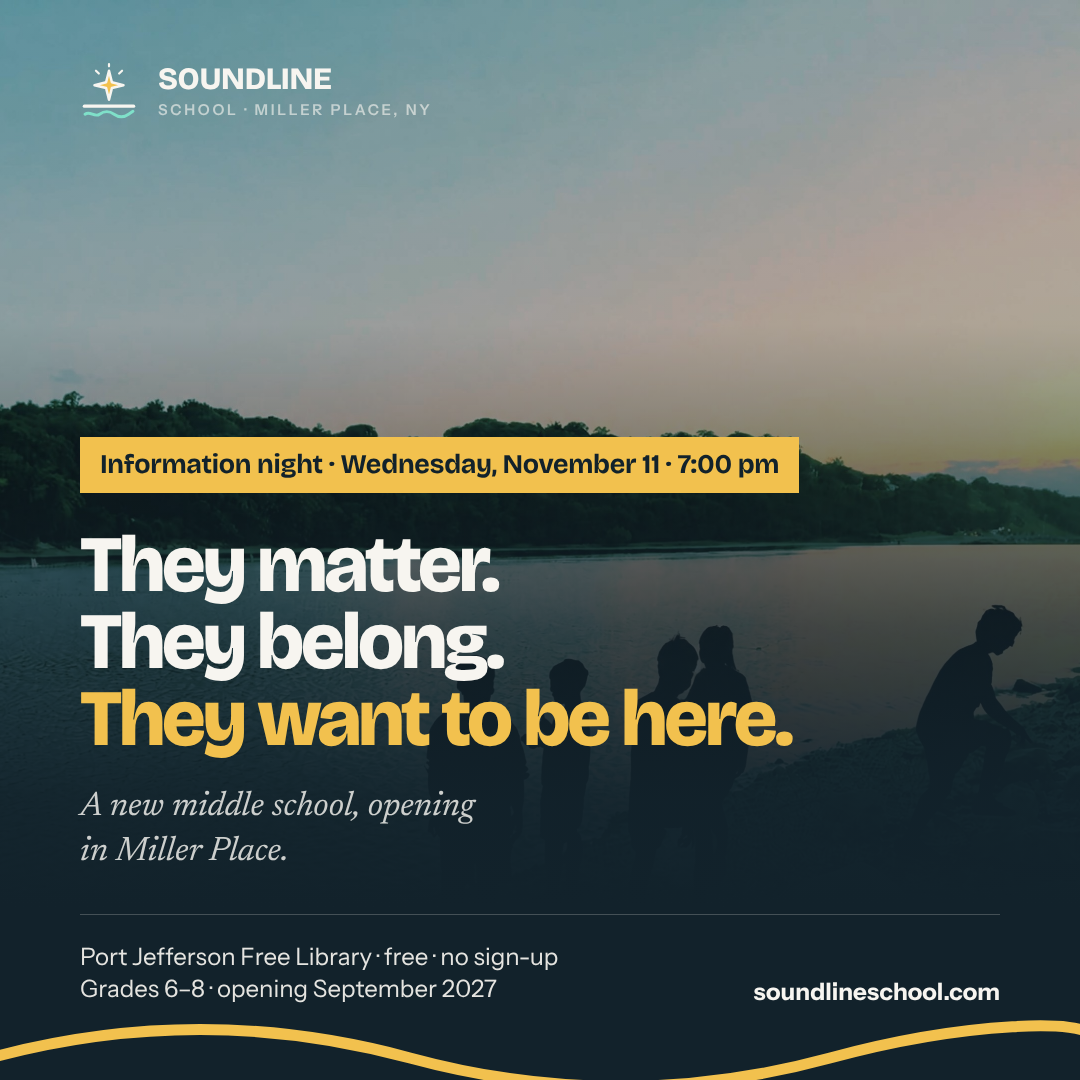
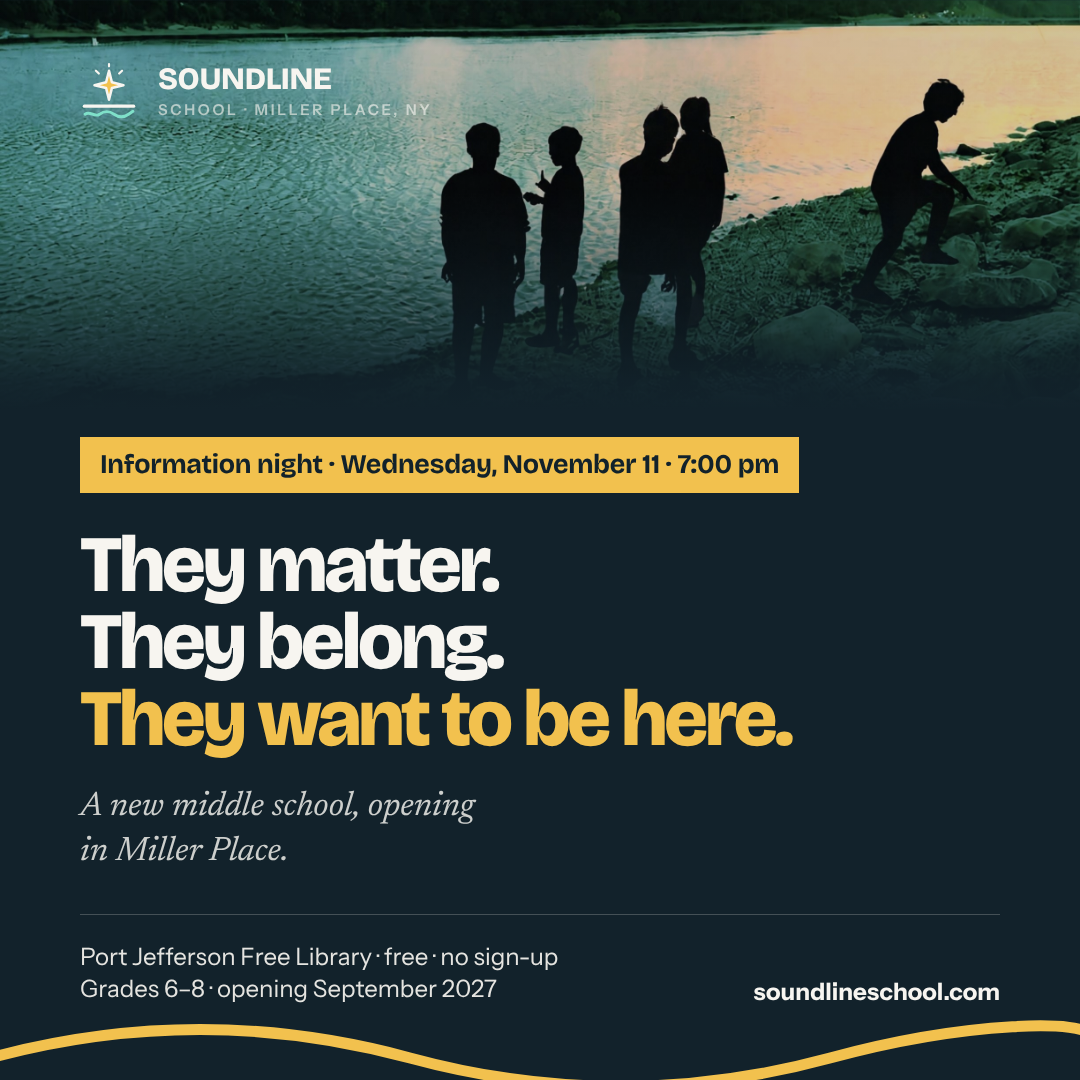
Put the booklet's shoreline photograph in the ad, as a band
The packet before its rebuild carried one photograph: five
kids in silhouette on the Sound at dusk. The rebuild dropped
it, because it was rebuilt from nothing. It is the right
picture for paid — real local water, real kids, no faces, so
nothing is being claimed about a child who does not attend a
school that does not exist yet.

Full-bleed put the figures behind the headline: in that shot
they fall in the lower third, which is where the words are.
A band across the top crops to them and leaves the type on
solid ground.

Also stops the December kicker claiming an hour nobody has
set. It carries the date alone until there is one.

Claude-Session: https://claude.ai/code/session_018XwtJ3ar8u6f3XjiJA2UqT

diff --git a/tools/ads-nov11.js b/tools/ads-nov11.js
@@ -6,6 +6,7 @@
 // crop itself.
 //
 //   node tools/ads-nov11.js                  → type-only, three sizes
+//   NIGHT=dec12 node tools/ads-nov11.js      → the December 12 session
 //   node tools/ads-nov11.js --photo <file>   → the same three over a photo
 //
 // Paid is not organic. A type-only card works in the feed of someone who
@@ -25,11 +26,13 @@ const fs = require('fs');
 
 const OUT = path.join(__dirname, '..', 'img', 'ads');
 
-// Where the photograph sits in each frame. The scrim has to carry white
-// text at any crop, so it is heavier at the bottom than it looks.
-const SCRIM = `linear-gradient(to bottom,
-  rgba(18,34,43,.30) 0%, rgba(18,34,43,.34) 30%,
-  rgba(18,34,43,.80) 58%, rgba(18,34,43,.97) 74%, #12222B 84%)`;
+// The photograph takes a band across the top and the type sits under it on
+// solid ground. Full-bleed put the figures behind the headline: in the
+// shoreline shot they fall in the lower third of the frame, which is exactly
+// where the words are. A band crops to them and keeps both legible.
+const BAND = `linear-gradient(to bottom,
+  rgba(18,34,43,.20) 0%, rgba(18,34,43,.16) 46%,
+  rgba(18,34,43,.62) 76%, rgba(18,34,43,.95) 93%, #12222B 100%)`;
 
 const MARK = `<svg class="mark" viewBox="0 0 160 160" aria-hidden="true">
   <path d="M80 24 L88 56 L120 64 L88 72 L80 104 L72 72 L40 64 L72 56 Z" fill="#F2C14E" stroke="#F7F5F0" stroke-width="7" stroke-linejoin="round"/>
@@ -56,8 +59,13 @@ const WAVE = `<svg class="wave" viewBox="0 0 1080 90" preserveAspectRatio="none"
 // The venue is logistics, not identity. It stays in the footing with the
 // rest of the practical detail — put in the line under the headline it
 // reads as an advertisement for the library.
+const NIGHTS = {
+  nov11: 'Information night · Wednesday, November 11 · 7:00 pm',
+  dec12: 'Information night · Saturday, December 12',
+};
+
 const COPY = {
-  kicker: 'Information night · Wednesday, November 11 · 7:00 pm',
+  kicker: NIGHTS[process.env.NIGHT || 'nov11'],
   head: ['They matter.', 'They belong.', 'They want to be here.'],
   sub: 'A new middle school, opening in Miller Place.',
   foot: ['Port Jefferson Free Library · free · no sign-up',
@@ -69,9 +77,9 @@ const COPY = {
 // rides. In Stories both clear Meta's bottom furniture, and the wave sits
 // below the footing rather than through it.
 const SIZES = [
-  { id: 'feed-4x5',   w: 1080, h: 1350, head: 92,  kick: 29, sub: 40, foot: 26, pad: '78px 80px 0',  floor: 74,  wave: -16 },
-  { id: 'feed-1x1',   w: 1080, h: 1080, head: 80,  kick: 27, sub: 34, foot: 24, pad: '62px 80px 0',  floor: 74,  wave: -16 },
-  { id: 'story-9x16', w: 1080, h: 1920, head: 104, kick: 32, sub: 46, foot: 28, pad: '270px 80px 0', floor: 494, wave: 368 },
+  { id: 'feed-4x5',   w: 1080, h: 1350, head: 92,  kick: 29, sub: 40, foot: 26, pad: '78px 80px 0',  floor: 74,  wave: -16, band: 46 },
+  { id: 'feed-1x1',   w: 1080, h: 1080, head: 80,  kick: 27, sub: 34, foot: 24, pad: '62px 80px 0',  floor: 74,  wave: -16, band: 38 },
+  { id: 'story-9x16', w: 1080, h: 1920, head: 104, kick: 32, sub: 46, foot: 28, pad: '270px 80px 0', floor: 494, wave: 368, band: 44 },
 ];
 
 const page = (s, photo) => `<!doctype html><html lang="en"><head><meta charset="utf-8">
@@ -88,8 +96,9 @@ const page = (s, photo) => `<!doctype html><html lang="en"><head><meta charset="
   *{box-sizing:border-box;margin:0;padding:0}
   body{width:${s.w}px;height:${s.h}px;background:var(--deep);color:var(--paper);
        font-family:var(--read);overflow:hidden}
-  .shot{position:absolute;inset:0;background-image:${SCRIM}, url("${photo || ''}");
-        background-size:cover, cover;background-position:center, center ${s.focus || '28%'}}
+  .shot{position:absolute;left:0;right:0;top:0;height:${s.band}%;
+        background-image:${BAND}, url("${photo || ''}");
+        background-size:cover, cover;background-position:center, center 84%}
   .card{width:${s.w}px;height:${s.h}px;padding:${s.pad};display:flex;flex-direction:column;
         position:relative}
 
@@ -202,7 +211,7 @@ ${photo ? '<div class="shot"></div>' : ''}
     });
     if (overflow) throw new Error(`${s.id}: ${overflow}`);
 
-    const file = path.join(OUT, `nov11-${photo ? 'photo-' : ''}${s.id}.png`);
+    const file = path.join(OUT, `${process.env.NIGHT || 'nov11'}-${photo ? 'photo-' : ''}${s.id}.png`);
     await p.screenshot({ path: file });
     console.log('drew', path.relative(path.join(__dirname, '..'), file), `${s.w}x${s.h}`);
     await ctx.close();
